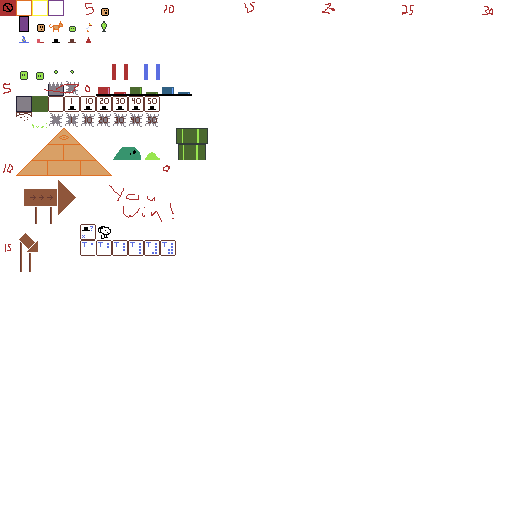
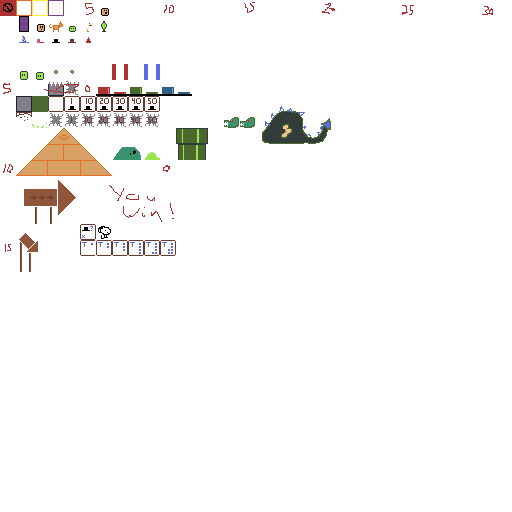
added boss

Changed region(s): [[0.4375, 0.2188, 0.6562, 0.2812]]

diff --git a/src/ludumDare40/entities/Boss.ts b/src/ludumDare40/entities/Boss.ts
@@ -1,0 +1,168 @@
+import { _ } from 'engine/importsEngine'
+import { SimpleGameEngine } from 'engine/SimpleGameEngine'
+import * as spriteCreator from 'ludumDare40/util/spriteCreator'
+import { KeyCodes } from 'engine/input/Keyboard';
+
+const turn = Math.PI * 2
+
+import { hats } from './hats'
+import { HatStack } from 'ludumDare40/entities/HatStack'
+import { LudumDare40Context } from 'ludumDare40/LudumDare40Context';
+import { BoundsDrawer } from 'ludumDare40/entities/BoundsDrawer';
+import { Bounds } from './Bounds';
+
+const blobFrames = spriteCreator.create16_frameHRun(7, 14, 2)
+
+export class BossHeadManager {
+
+  context: LudumDare40Context
+
+  items: BossHead[] = []
+
+  init(context: LudumDare40Context) {
+    this.context = context
+  }
+
+  createAt(x, y) {
+    let item = new BossHead()
+    item.init(this.context)
+    item.moveTo(x, y)
+    this.items.push(item)
+    this.context.layerObjects.addChild(item.container)
+    return item
+  }
+
+  update() {
+    _.forEach(this.items, (c) => {
+      c.update()
+    })
+    this.destroyMarked()
+  }
+
+  destroyMarked() {
+    let removed = _.remove(this.items, (c) => (c.isReadyToBeDestroyed))
+
+    if (removed.length > 0) {
+
+      _.forEach(removed, (c) => {
+        this.context.layerObjects.removeChild(c.container)
+      })
+
+      console.log(`cleaning up ${removed.length} items - ${this.items.length} left`)
+    }
+  }
+
+  clear() {
+    _.forEach(this.items, (c) => {
+      c.isReadyToBeDestroyed = true
+      this.context.layerObjects.removeChild(c.container)
+    })
+    this.items = []
+  }
+
+  drawBounds(boundsDrawer: BoundsDrawer) {
+    _.forEach(this.items, (c) => {
+      boundsDrawer.draw(c.bounds)
+    })
+  }
+
+}
+
+export class BossHead {
+
+  context: LudumDare40Context
+  container = new PIXI.Container()
+
+  body: PIXI.Sprite
+  hats = new HatStack()
+
+  frame = 0
+  frameIdx = 0
+
+  framesTillJump = 0
+
+  bounds = new Bounds()
+
+  isReadyToBeDestroyed = false
+
+  init(cx: LudumDare40Context) {
+    this.context = cx
+
+    this.body = spriteCreator.create16_sprite(this.context.sge, 'ase-512-16', 7, 15)
+    this.body.anchor.set(0.5, 1)
+
+    this.framesTillJump = _.random(0, 120)
+
+    this.hats.init(this.context.sge)
+
+    this.frameIdx = _.random(0, 1, false)
+
+    this.container.addChild(this.body)
+    this.container.addChild(this.hats.container)
+
+  }
+
+  destroy() {
+    if (this.isReadyToBeDestroyed) { return }
+    this.isReadyToBeDestroyed = true
+
+    this.context.particles.emitBlobParts(this.bounds.x, this.bounds.y - 4)
+
+    this.context.sounds.playSmash()
+
+    _.forEach(this.hats.hats, (c, cIdx) => {
+      this.popHat(c, cIdx)
+    })
+
+  }
+
+  popHat(c, cIdx) {
+    let hat = this.context.hats.createAt(this.bounds.x, this.bounds.y - 4 - 8 - cIdx * 3)
+    hat.body.texture.frame = c.texture.frame
+    hat.bounds.vx = _.random(15, 64)
+    if (_.random(0, 1) === 1) {
+      hat.bounds.vx *= -1
+    }
+    hat.bounds.vy = _.random(-300, -50)
+  }
+
+  update() {
+
+    if (this.isReadyToBeDestroyed) { return }
+
+    this.frame++
+
+    if (this.frame % 16 === 0) {
+      this.frameIdx++
+      this.frameIdx = this.frameIdx % blobFrames.length
+      this.body.texture.frame = blobFrames[this.frameIdx]
+    }
+
+    if (this.bounds.onGround) {
+      this.framesTillJump--
+      if (this.framesTillJump <= 0) {
+
+        this.bounds.jump()
+        this.framesTillJump = _.random(0, 120)
+      }
+    }
+
+    this.bounds.update(this.context)
+
+    this.container.position.set(this.bounds.x, this.bounds.y)
+
+    this.body.scale.set(this.bounds.facingRight ? 1 : -1, 1)
+
+    this.hats.x = 0
+    this.hats.y = -9 + (this.frameIdx === 0 ? 0 : 1)
+    this.hats.facingRight = this.bounds.facingRight
+    this.hats.update()
+
+    // this.context.particles.emitBlobParts(this.body.texture.frame, x, y)
+  }
+
+  moveTo(x, y) {
+    this.bounds.moveTo(x, y)
+  }
+
+}

diff --git a/src/ludumDare40/LudumDare40Context.ts b/src/ludumDare40/LudumDare40Context.ts
@@ -33,6 +33,7 @@ import { KeyCodes } from 'engine/input/Keyboard';
 import { HatCounter, HatCounterManager } from 'ludumDare40/entities/HatCounter';
 import { ButtonManager, ButtonBoss, ButtonWin, ButtonMid } from 'ludumDare40/entities/Button';
 import { TextsManager } from 'ludumDare40/entities/Texts';
+import { BossHeadManager } from 'ludumDare40/entities/Boss';
 
 const turn = Math.PI * 2
 
@@ -71,6 +72,7 @@ export class LudumDare40Context {
   hatCounters = new HatCounterManager()
   buttons = new ButtonManager()
   texts = new TextsManager()
+  bossHeads = new BossHeadManager()
 
   pressedBossButton = false
   pressedMidButton = false
@@ -101,6 +103,7 @@ export class LudumDare40Context {
     this.hatCounters.init(this)
     this.buttons.init(this)
     this.texts.init(this)
+    this.bossHeads.init(this)
 
     this.player = new Player()
     this.player.init(this)
@@ -198,6 +201,7 @@ export class LudumDare40Context {
     this.hatCounters.update()
     this.buttons.update()
     this.texts.update()
+    this.bossHeads.update()
 
     // Draw bounds
     if (drawBounds) {
@@ -209,7 +213,6 @@ export class LudumDare40Context {
     // Check collisions
     let p = this.player
     _.forEach(this.blobs.items, (c) => {
-
 
       let b = c
 
@@ -245,6 +248,48 @@ export class LudumDare40Context {
       }
     })
 
+    this.defeatedBoss = this.bossHeads.items.length === 0
+    
+    _.forEach(this.bossHeads.items, (c) => {
+
+      let b = c
+
+      if (collisions.isRectOverlap(p.bounds, b.bounds)) {
+        if (p.bounds.boundsY2 < b.bounds.boundsY2 && p.bounds.vy > 0) {
+          // Stomp
+          //this.particles.emitBlobParts(b.body.texture.frame, (b.boundsX1 + b.boundsX2) / 2, b.boundsY2)
+
+          p.bounds.subY = b.bounds.boundsY1 * 32 - 32 - 16
+          p.bounds.vy = 0
+          p.bounds.accelY = 0
+          p.bounds.jump()
+          p.bounds.recalcBounds()
+
+          b.bounds.setStateFalling()
+
+          if (b.hats.hats.length > 0) {
+            let hat = b.hats.removeTopHat()
+            b.popHat(hat, b.hats.hats.length)
+          }
+          else {
+            if (!b.isReadyToBeDestroyed) {
+              b.destroy()
+
+
+
+              // _.forEach(b.hats.hats, (c) => {
+              //   p.hats.addHat()
+              // })
+            }
+          }
+
+        } else {
+          p.die()
+        }
+
+      }
+    })
+
     _.forEach(this.buttons.items, (c) => {
 
       let b = c
@@ -258,6 +303,18 @@ export class LudumDare40Context {
             if (b.buttonType === ButtonBoss) {
               sounds.playMusicBoss()
               this.pressedBossButton = true
+
+              let numHeads = 1 + Math.floor(this.getPlayerHatCount() / 10)
+              if (numHeads > 10) { numHeads = 10 }
+              for (let idxHead = 0; idxHead < numHeads; idxHead++) {
+                let head = this.bossHeads.createAt(b.bounds.x + 150 - idxHead * 12, p.bounds.y)
+                let numHats = _.random(0, 3, false)
+                for (let idxHat = 0; idxHat < numHats; idxHat++) {
+                  head.hats.addHat()
+                }
+              }
+
+
             } else if (b.buttonType === ButtonWin) {
               sounds.playMusicWin()
             } else if (b.buttonType === ButtonMid) {
@@ -354,6 +411,7 @@ export class LudumDare40Context {
       let btn = this.texts.createAt(c.bx * 16 + 8, c.by * 16 + 8)
       btn.text.text = c.data.text
     })
+    this.bossHeads.clear()
   }
 
   resetTileMap() {
